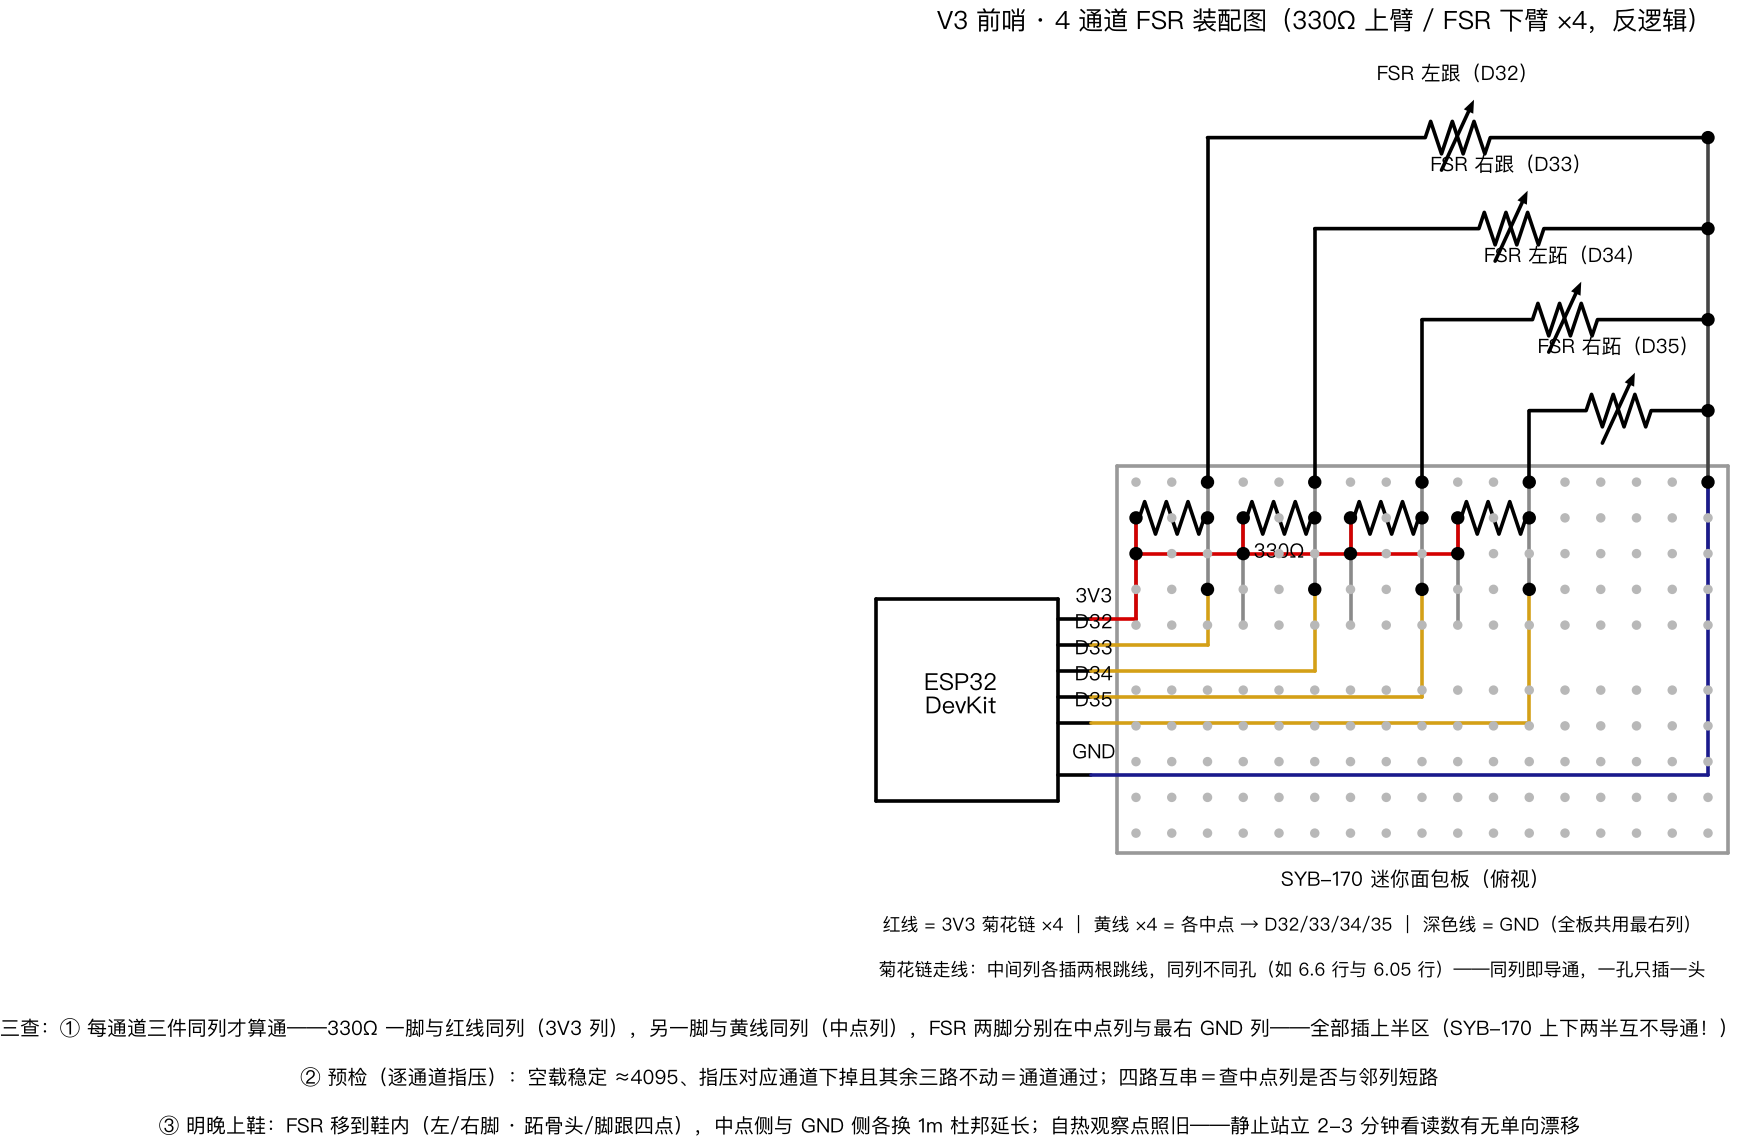
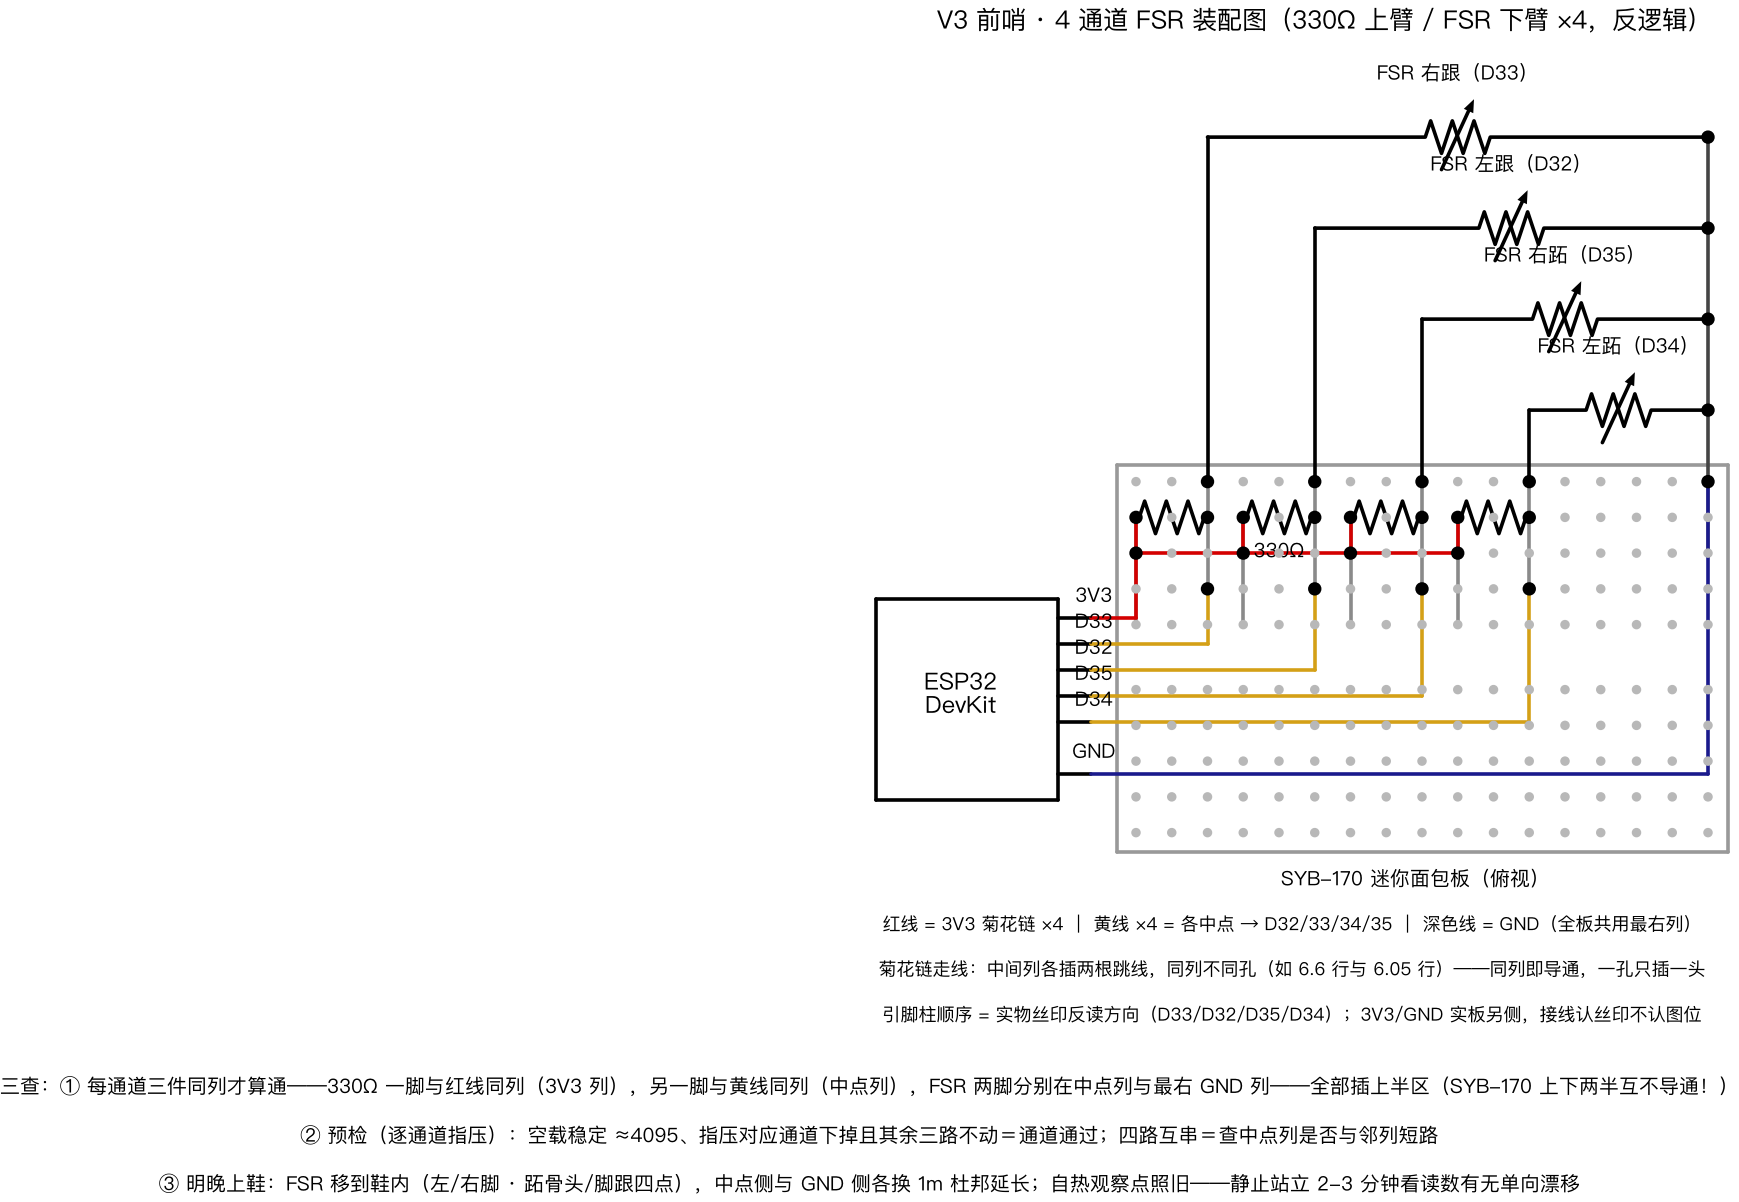
draw: 引脚柱改实物丝印反读序（D33/D32/D35/D34）——中点列分配随引脚序换位保持零交叉，固件映射不变；加认丝印注

Changed region(s): [[0.4968, 0.0, 1.0, 0.8566], [0.0, 0.8872, 0.9937, 1.0], [0.5279, 0.0, 0.59, 0.0306]]

diff --git a/draw_v3_4ch_syb170.py b/draw_v3_4ch_syb170.py
@@ -59,8 +59,10 @@ with schemdraw.Drawing(file="web/v3_4ch_syb170.png", dpi=130, show=False) as d:
         d += elm.Line().at((xa, ya)).to((xb, yb))
     d += elm.Label().at((2.1, 4.35)).label("ESP32\nDevKit", fontsize=13)
 
-    y3v3, y32, y33, y34, y35, ygnd = 5.6, 5.2, 4.8, 4.4, 4.0, 3.2
-    for y, name in [(y3v3, "3V3"), (y32, "D32"), (y33, "D33"), (y34, "D34"), (y35, "D35"), (ygnd, "GND")]:
+    y3v3 = 5.6
+    # 引脚柱按用户实物丝印方向排（从下往上读）：D33, D32, D35, D34；3V3/GND 实板在别处，认丝印
+    stubs = [(5.2, "D33"), (4.8, "D32"), (4.4, "D35"), (4.0, "D34"), (3.2, "GND")]
+    for y, name in [(y3v3, "3V3")] + stubs:
         d += elm.Line().at((3.5, y)).to((4.0, y))
         d += elm.Label().at((3.95, y + 0.26)).label(name, fontsize=11)
 
@@ -75,16 +77,17 @@ with schemdraw.Drawing(file="web/v3_4ch_syb170.png", dpi=130, show=False) as d:
         d += elm.Dot().at((c3v[i], 6.6))
         d += elm.Dot().at((c3v[i], 7.15))
 
-    # ---- 中点黄线：四列各出一根，接到对应 ADC 引脚（低引脚配近列，互不交叉） ----
-    ch = [(0, y32, "D32 左跟"), (1, y33, "D33 右跟"), (2, y34, "D34 左跖"), (3, y35, "D35 右跖")]
-    for i, y, name in ch:
+    # ---- 中点黄线：四列各出一根，接到对应 ADC 引脚（最近列对最上脚，零交叉） ----
+    # 列通道分配随实物引脚序：cm[0]→D33 右跟、cm[1]→D32 左跟、cm[2]→D35 右跖、cm[3]→D34 左跖（固件映射不变）
+    ch = [(0, 5.2), (1, 4.8), (2, 4.4), (3, 4.0)]   # (中点列序号, 引脚柱 y)
+    for i, y in ch:
         d += elm.Line().at((cm[i], 6.05)).toy(y).color(YEL)
         d += elm.Line().at((cm[i], y)).tox(4.0).color(YEL)
         d += elm.Dot().at((cm[i], 6.05))
 
     # ---- GND 深蓝线：ESP32 → 最右列（y=3.2 最低，横穿无阻挡） ----
-    d += elm.Line().at((4.0, ygnd)).tox(cG).color(BLU)
-    d += elm.Line().at((cG, ygnd)).toy(7.7).color(BLU)
+    d += elm.Line().at((4.0, 3.2)).tox(cG).color(BLU)
+    d += elm.Line().at((cG, 3.2)).toy(7.7).color(BLU)
     d += elm.Dot().at((cG, 7.7))
 
     # ---- 330Ω ×4：上半区 7.15 行，各跨 3V3 列 → 中点列（腿弯紧；阻值标在通道2 下方） ----
@@ -95,8 +98,8 @@ with schemdraw.Drawing(file="web/v3_4ch_syb170.png", dpi=130, show=False) as d:
 
     # ---- FSR ×4：板上方错层（左通道最高、右通道最低 → 与各通道中点竖线零交叉） ----
     # 左端（中点侧）插各通道中点列顶行；右端共 GND 列（竖线上四个节点圆点）
-    fsr_y = [13.0, 11.6, 10.2, 8.8]   # ch0 左跟最高 … ch3 右跖最低（层距拉足，符号不压线）
-    fsr_names = ["FSR 左跟（D32）", "FSR 右跟（D33）", "FSR 左跖（D34）", "FSR 右跖（D35）"]
+    fsr_y = [13.0, 11.6, 10.2, 8.8]   # 随列序：右跟最高 … 左跖最低（层距拉足，符号不压线）
+    fsr_names = ["FSR 右跟（D33）", "FSR 左跟（D32）", "FSR 右跖（D35）", "FSR 左跖（D34）"]
     for i in range(4):
         d += elm.ResistorVar().endpoints((cm[i], fsr_y[i]), (cG, fsr_y[i])).label(
             fsr_names[i], loc="top", fontsize=11)
@@ -113,14 +116,18 @@ with schemdraw.Drawing(file="web/v3_4ch_syb170.png", dpi=130, show=False) as d:
     d += elm.Label().at((7.0, 0.3)).label(
         "菊花链走线：中间列各插两根跳线，同列不同孔（如 6.6 行与 6.05 行）——同列即导通，一孔只插一头",
         fontsize=10)
+    d += elm.Label().at((2.1, 6.6)).label("", fontsize=10)
+    d += elm.Label().at((7.0, -0.4)).label(
+        "引脚柱顺序 = 实物丝印反读方向（D33/D32/D35/D34）；3V3/GND 实板另侧，接线认丝印不认图位",
+        fontsize=10)
     d += elm.Label().at((7.5, 14.9)).label(
         "V3 前哨 · 4 通道 FSR 装配图（330Ω 上臂 / FSR 下臂 ×4，反逻辑）", fontsize=14)
-    d += elm.Label().at((0.5, -0.6)).label(
+    d += elm.Label().at((0.5, -1.5)).label(
         "三查：① 每通道三件同列才算通——330Ω 一脚与红线同列（3V3 列），另一脚与黄线同列（中点列），"
         "FSR 两脚分别在中点列与最右 GND 列——全部插上半区（SYB-170 上下两半互不导通！）", fontsize=11)
-    d += elm.Label().at((0.5, -1.35)).label(
+    d += elm.Label().at((0.5, -2.25)).label(
         "② 预检（逐通道指压）：空载稳定 ≈4095、指压对应通道下掉且其余三路不动＝通道通过；"
         "四路互串＝查中点列是否与邻列短路", fontsize=11)
-    d += elm.Label().at((0.5, -2.1)).label(
+    d += elm.Label().at((0.5, -3.0)).label(
         "③ 明晚上鞋：FSR 移到鞋内（左/右脚 · 跖骨头/脚跟四点），中点侧与 GND 侧各换 1m 杜邦延长；"
         "自热观察点照旧——静止站立 2-3 分钟看读数有无单向漂移", fontsize=11)
